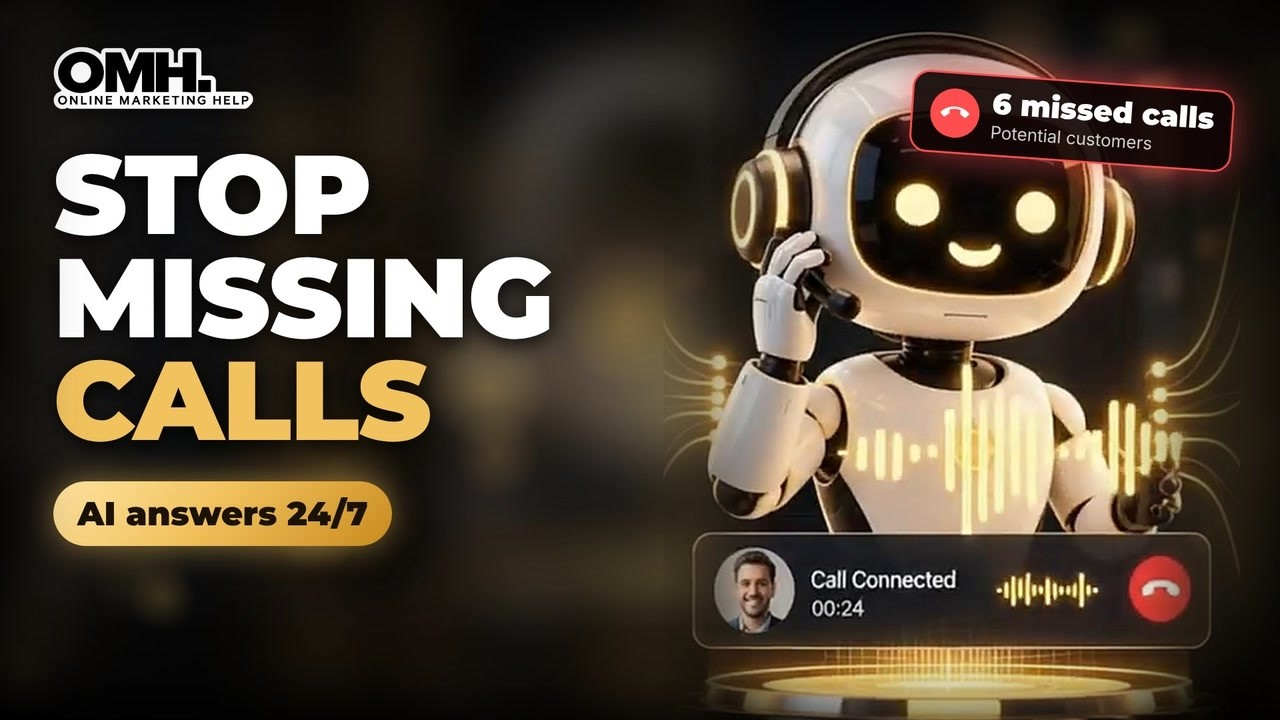
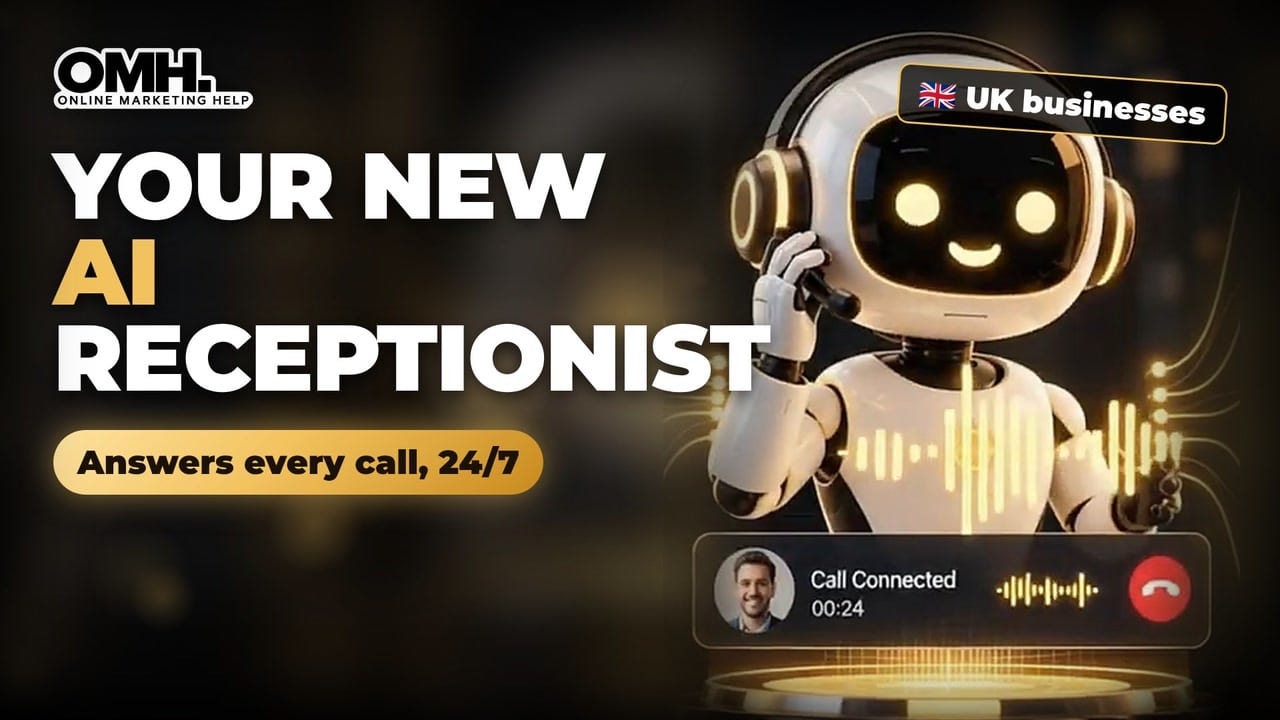
AI voice agents: apply the client's 26 Oct 2026 audit and its page-speed notes
- Hero video thumbnail replaced with the client's "Your new AI receptionist"
  artwork (same file name, so every voice landing page picks it up; 130 KB
  JPEG re-encoded to 89 KB).
- The hero poster was loading="lazy", which deferred the page's largest
  image; it now carries fetchpriority="high" on every voice landing hero.
- "Part 2: what happens to a new web lead" flow panel removed from How it
  works (client: "really need this flow section?").
- Demo-line figures (calls answered, bookings, out of hours) removed from
  Sample calls by industry for now.
- Carousel controls centred under the track (Sample calls, Local cover).
- The page script's twenty-odd inits now run in idle time with an 800ms
  cap instead of inside hydration (PageSpeed 71 mobile / 70 desktop).

The calculator breakdown form the audit marked was already removed in
32079e4.

Changed region(s): [[0.0312, 0.2139, 0.625, 0.7944], [0.6875, 0.0611, 1.0, 0.275]]

diff --git a/lib/content/ai-voice-agents-landing-v4.ts b/lib/content/ai-voice-agents-landing-v4.ts
@@ -93,7 +93,7 @@ export const landingV4Markup = String.raw`
     <div class="hero-video" id="hero-video">
       <div class="video-frame" data-video data-youtube-id="NB9WWD0TBR8" data-video-title="Stop missing calls with the OMH AI Receptionist">
         <a class="video-poster on-band has-thumb" href="https://www.youtube.com/watch?v=NB9WWD0TBR8" target="_blank" rel="noopener" data-video-play aria-label="Play video: Stop missing calls with the OMH AI Receptionist (1:09)">
-          <img class="vp-thumb" src="/images/voice-agents/ai-receptionist-video-poster.jpg" alt="Video: the OMH AI Receptionist answering calls 24/7" width="1280" height="720" loading="lazy" decoding="async">
+          <img class="vp-thumb" src="/images/voice-agents/ai-receptionist-video-poster.jpg" alt="Video: the OMH AI Receptionist answering calls 24/7" width="1280" height="720" fetchpriority="high" decoding="async">
           <span class="vp-play" aria-hidden="true"><span class="vp-play-core"><svg class="vp-play-ico" viewBox="0 0 24 24" focusable="false"><path d="M8 5.6v12.8l10.4-6.4z"/></svg></span><span class="vp-play-label">Watch the demo</span></span>
           <span class="vp-bottom" aria-hidden="true">
             <span class="vp-cap"><span class="vp-kicker"><span class="voice-mark"><i></i><i></i><i></i></span>Online Marketing Help</span><span class="vp-title">Stop missing calls with the OMH AI Receptionist</span></span>
@@ -223,42 +223,6 @@ export const landingV4Markup = String.raw`
     </ol>
     <p class="t-card mt-6 text-muted">Starter goes live in 3 working days, Growth in 5 to 7 and Scale in 12 to 15. The clock starts once we have your content and diary access.</p>
 
-    <div class="flow-panel on-band mt-14">
-      <h3 class="smallcaps text-muted">Part 2: What happens to a new web lead (Growth and Scale)</h3>
-      <p class="h3 mt-3">From ad click to a call back in under a minute.</p>
-    <div class="lf mt-8" data-lf-flow role="group" aria-label="How a lead moves from your ad to your calendar">
-      <div data-lf="n1" class="lf-node"><span class="lf-ico" aria-hidden="true"><svg class="icon"><use href="#v4-i-megaphone"/></svg></span><span class="lf-txt"><b><span class="sr-only">Step 1: </span>Someone clicks your ad</b><small><a href="/google-adwords-ppc" class="underline decoration-gold decoration-2 underline-offset-4 hover:text-hl">Google</a> or Facebook</small></span></div>
-      <span class="lf-arrow" data-lf="a1" aria-hidden="true"></span>
-      <div data-lf="n2" class="lf-node"><span class="lf-ico" aria-hidden="true"><svg class="icon"><use href="#v4-i-globe"/></svg></span><span class="lf-txt"><b><span class="sr-only">Step 2: </span>They enquire Your website form, or a call</b></span></div>
-      <span class="lf-arrow" data-lf="a2" aria-hidden="true"></span>
-      <div data-lf="n3" class="lf-node"><span class="lf-ico" aria-hidden="true"><svg class="icon"><use href="#v4-i-clipboard"/></svg></span><span class="lf-txt"><b><span class="sr-only">Step 3: </span>The lead lands Straight into your CRM</b></span></div>
-      <span class="lf-arrow" data-lf="a3" aria-hidden="true"></span>
-      <div data-lf="n4" class="lf-node lf-gold"><span class="lf-ico" aria-hidden="true"><svg class="icon"><use href="#v4-i-phone"/></svg></span><span class="lf-txt"><b><span class="sr-only">Step 4: </span>Your agent rings them Within 60 seconds</b></span></div>
-      <div class="lf-split" aria-hidden="true">
-        <svg viewBox="0 0 100 300" preserveAspectRatio="none"><path data-lf="s1" d="M0 150 C50 150 50 50 100 50"/><path data-lf="s2" d="M0 150 L100 150"/><path data-lf="s3" d="M0 150 C50 150 50 250 100 250"/></svg>
-        <span class="lf-arrow" data-lf="sm"></span>
-      </div>
-      <div class="lf-branches">
-        <p class="lf-then"><span class="sr-only">Step 5: </span>Then one of three things happens:</p>
-        <ul aria-label="Step 5: the outcome">
-          <li><div data-lf="b1" tabindex="0" class="lf-node lf-ok"><span class="lf-ico" aria-hidden="true"><svg class="icon"><use href="#v4-i-calendar"/></svg></span><span class="lf-txt"><b>An appointment booked On your calendar</b></span></div></li>
-          <li><div data-lf="b2" tabindex="0" class="lf-node"><span class="lf-ico" aria-hidden="true"><svg class="icon"><use href="#v4-i-transfer"/></svg></span><span class="lf-txt"><b>A warm transfer Put straight through to you</b></span></div></li>
-          <li><div data-lf="b3" tabindex="0" class="lf-node"><span class="lf-ico" aria-hidden="true"><svg class="icon"><use href="#v4-i-message"/></svg></span><span class="lf-txt"><b>A follow-up If they are not ready yet</b></span></div></li>
-        </ul>
-      </div>
-      <div class="lf-merge" aria-hidden="true">
-        <svg viewBox="0 0 100 300" preserveAspectRatio="none"><path data-lf="m1" d="M0 50 C50 50 50 150 100 150"/><path data-lf="m2" d="M0 150 L100 150"/><path data-lf="m3" d="M0 250 C50 250 50 150 100 150"/></svg>
-        <span class="lf-arrow" data-lf="mm"></span>
-      </div>
-      <div data-lf="n5" class="lf-node lf-final on-band"><span class="lf-ico" aria-hidden="true"><svg class="icon"><use href="#v4-i-mail"/></svg></span><span class="lf-txt"><b><span class="sr-only">Step 6: </span>A summary and tags Written back to your CRM</b></span></div>
-    </div>
-      <p class="lf-status" aria-hidden="true" data-lf-status>Follow a lead through it. Hover or tap an outcome to trace its route.</p>
-      <dl class="kstats mt-10">
-        <div><dt class="sr-only">Answer speed</dt><dd><b>1st ring</b><span>answer speed</span></dd></div>
-        <div><dt class="sr-only">New lead call time</dt><dd><b>60 sec</b><span>to call new web leads</span><small>(Growth and Scale)</small></dd></div>
-        <div><dt class="sr-only">Hours</dt><dd><b>24/7</b><span>bank holidays included</span></dd></div>
-        <div><dt class="sr-only">Calls summarised</dt><dd><b>100%</b><span>of calls summarised for you</span></dd></div>
-      </dl>
-    </div>
+    <!-- The "Part 2" lead-flow panel was removed here (client audit, 26 Oct 2026). -->
   </div>
 `;

diff --git a/lib/content/voice-receptionist/landing.ts b/lib/content/voice-receptionist/landing.ts
@@ -90,7 +90,7 @@ export const receptionistLandingMarkup = String.raw`
     <div class="hero-video" id="hero-video">
       <div class="video-frame" data-video data-youtube-id="NB9WWD0TBR8" data-video-title="Stop missing calls with the OMH AI Receptionist">
         <a class="video-poster on-band has-thumb" href="https://www.youtube.com/watch?v=NB9WWD0TBR8" target="_blank" rel="noopener" data-video-play aria-label="Play video: Stop missing calls with the OMH AI Receptionist (1:09)">
-          <img class="vp-thumb" src="/images/voice-agents/ai-receptionist-video-poster.jpg" alt="Video: the OMH AI Receptionist answering calls 24/7" width="1280" height="720" loading="lazy" decoding="async">
+          <img class="vp-thumb" src="/images/voice-agents/ai-receptionist-video-poster.jpg" alt="Video: the OMH AI Receptionist answering calls 24/7" width="1280" height="720" fetchpriority="high" decoding="async">
           <span class="vp-play" aria-hidden="true"><span class="vp-play-core"><svg class="vp-play-ico" viewBox="0 0 24 24" focusable="false"><path d="M8 5.6v12.8l10.4-6.4z"/></svg></span><span class="vp-play-label">Watch the demo</span></span>
           <span class="vp-bottom" aria-hidden="true">
             <span class="vp-cap"><span class="vp-kicker"><span class="voice-mark"><i></i><i></i><i></i></span>Online Marketing Help</span><span class="vp-title">Stop missing calls with the OMH AI Receptionist</span></span>

diff --git a/lib/content/voice-builders/landing.ts b/lib/content/voice-builders/landing.ts
@@ -94,7 +94,7 @@ export const buildersLandingMarkup = String.raw`
     <div class="hero-video" id="hero-video">
       <div class="video-frame" data-video data-youtube-id="NB9WWD0TBR8" data-video-title="Stop missing calls with the OMH AI Receptionist">
         <a class="video-poster on-band has-thumb" href="https://www.youtube.com/watch?v=NB9WWD0TBR8" target="_blank" rel="noopener" data-video-play aria-label="Play video: Stop missing calls with the OMH AI Receptionist (1:09)">
-          <img class="vp-thumb" src="/images/voice-agents/ai-receptionist-video-poster.jpg" alt="Video: the OMH AI Receptionist answering calls 24/7" width="1280" height="720" loading="lazy" decoding="async">
+          <img class="vp-thumb" src="/images/voice-agents/ai-receptionist-video-poster.jpg" alt="Video: the OMH AI Receptionist answering calls 24/7" width="1280" height="720" fetchpriority="high" decoding="async">
           <span class="vp-play" aria-hidden="true"><span class="vp-play-core"><svg class="vp-play-ico" viewBox="0 0 24 24" focusable="false"><path d="M8 5.6v12.8l10.4-6.4z"/></svg></span><span class="vp-play-label">Watch the demo</span></span>
           <span class="vp-bottom" aria-hidden="true">
             <span class="vp-cap"><span class="vp-kicker"><span class="voice-mark"><i></i><i></i><i></i></span>Online Marketing Help</span><span class="vp-title">Stop missing calls with the OMH AI Receptionist</span></span>

diff --git a/lib/content/voice-plumbers/landing.ts b/lib/content/voice-plumbers/landing.ts
@@ -93,7 +93,7 @@ export const plumbersLandingMarkup = String.raw`
     <div class="hero-video" id="hero-video">
       <div class="video-frame" data-video data-youtube-id="NB9WWD0TBR8" data-video-title="Stop missing calls with the OMH AI Receptionist">
         <a class="video-poster on-band has-thumb" href="https://www.youtube.com/watch?v=NB9WWD0TBR8" target="_blank" rel="noopener" data-video-play aria-label="Play video: Stop missing calls with the OMH AI Receptionist (1:09)">
-          <img class="vp-thumb" src="/images/voice-agents/ai-receptionist-video-poster.jpg" alt="Video: the OMH AI Receptionist answering calls 24/7" width="1280" height="720" loading="lazy" decoding="async">
+          <img class="vp-thumb" src="/images/voice-agents/ai-receptionist-video-poster.jpg" alt="Video: the OMH AI Receptionist answering calls 24/7" width="1280" height="720" fetchpriority="high" decoding="async">
           <span class="vp-play" aria-hidden="true"><span class="vp-play-core"><svg class="vp-play-ico" viewBox="0 0 24 24" focusable="false"><path d="M8 5.6v12.8l10.4-6.4z"/></svg></span><span class="vp-play-label">Watch the demo</span></span>
           <span class="vp-bottom" aria-hidden="true">
             <span class="vp-cap"><span class="vp-kicker"><span class="voice-mark"><i></i><i></i><i></i></span>Online Marketing Help</span><span class="vp-title">Stop missing calls with the OMH AI Receptionist</span></span>

diff --git a/lib/content/voice-clinics/landing.ts b/lib/content/voice-clinics/landing.ts
@@ -93,7 +93,7 @@ export const clinicLandingMarkup = String.raw`
     <div class="hero-video" id="hero-video">
       <div class="video-frame" data-video data-youtube-id="NB9WWD0TBR8" data-video-title="Stop missing calls with the OMH AI Receptionist">
         <a class="video-poster on-band has-thumb" href="https://www.youtube.com/watch?v=NB9WWD0TBR8" target="_blank" rel="noopener" data-video-play aria-label="Play video: Stop missing calls with the OMH AI Receptionist (1:09)">
-          <img class="vp-thumb" src="/images/voice-agents/ai-receptionist-video-poster.jpg" alt="Video: the OMH AI Receptionist answering calls 24/7" width="1280" height="720" loading="lazy" decoding="async">
+          <img class="vp-thumb" src="/images/voice-agents/ai-receptionist-video-poster.jpg" alt="Video: the OMH AI Receptionist answering calls 24/7" width="1280" height="720" fetchpriority="high" decoding="async">
           <span class="vp-play" aria-hidden="true"><span class="vp-play-core"><svg class="vp-play-ico" viewBox="0 0 24 24" focusable="false"><path d="M8 5.6v12.8l10.4-6.4z"/></svg></span><span class="vp-play-label">Watch the demo</span></span>
           <span class="vp-bottom" aria-hidden="true">
             <span class="vp-cap"><span class="vp-kicker"><span class="voice-mark"><i></i><i></i><i></i></span>Online Marketing Help</span><span class="vp-title">Stop missing calls with the OMH AI Receptionist</span></span>

diff --git a/lib/content/voice-dental/landing.ts b/lib/content/voice-dental/landing.ts
@@ -93,7 +93,7 @@ export const dentalLandingMarkup = String.raw`
     <div class="hero-video" id="hero-video">
       <div class="video-frame" data-video data-youtube-id="NB9WWD0TBR8" data-video-title="Stop missing calls with the OMH AI Receptionist">
         <a class="video-poster on-band has-thumb" href="https://www.youtube.com/watch?v=NB9WWD0TBR8" target="_blank" rel="noopener" data-video-play aria-label="Play video: Stop missing calls with the OMH AI Receptionist (1:09)">
-          <img class="vp-thumb" src="/images/voice-agents/ai-receptionist-video-poster.jpg" alt="Video: the OMH AI Receptionist answering calls 24/7" width="1280" height="720" loading="lazy" decoding="async">
+          <img class="vp-thumb" src="/images/voice-agents/ai-receptionist-video-poster.jpg" alt="Video: the OMH AI Receptionist answering calls 24/7" width="1280" height="720" fetchpriority="high" decoding="async">
           <span class="vp-play" aria-hidden="true"><span class="vp-play-core"><svg class="vp-play-ico" viewBox="0 0 24 24" focusable="false"><path d="M8 5.6v12.8l10.4-6.4z"/></svg></span><span class="vp-play-label">Watch the demo</span></span>
           <span class="vp-bottom" aria-hidden="true">
             <span class="vp-cap"><span class="vp-kicker"><span class="voice-mark"><i></i><i></i><i></i></span>Online Marketing Help</span><span class="vp-title">Stop missing calls with the OMH AI Receptionist</span></span>

diff --git a/lib/content/voice-estate/landing.ts b/lib/content/voice-estate/landing.ts
@@ -98,7 +98,7 @@ export const estateLandingMarkup = String.raw`
     <div class="hero-video" id="hero-video">
       <div class="video-frame" data-video data-youtube-id="NB9WWD0TBR8" data-video-title="Stop missing calls with the OMH AI Receptionist">
         <a class="video-poster on-band has-thumb" href="https://www.youtube.com/watch?v=NB9WWD0TBR8" target="_blank" rel="noopener" data-video-play aria-label="Play video: Stop missing calls with the OMH AI Receptionist (1:09)">
-          <img class="vp-thumb" src="/images/voice-agents/ai-receptionist-video-poster.jpg" alt="Video: the OMH AI Receptionist answering calls 24/7" width="1280" height="720" loading="lazy" decoding="async">
+          <img class="vp-thumb" src="/images/voice-agents/ai-receptionist-video-poster.jpg" alt="Video: the OMH AI Receptionist answering calls 24/7" width="1280" height="720" fetchpriority="high" decoding="async">
           <span class="vp-play" aria-hidden="true"><span class="vp-play-core"><svg class="vp-play-ico" viewBox="0 0 24 24" focusable="false"><path d="M8 5.6v12.8l10.4-6.4z"/></svg></span><span class="vp-play-label">Watch the demo</span></span>
           <span class="vp-bottom" aria-hidden="true">
             <span class="vp-cap"><span class="vp-kicker"><span class="voice-mark"><i></i><i></i><i></i></span>Online Marketing Help</span><span class="vp-title">Stop missing calls with the OMH AI Receptionist</span></span>

diff --git a/lib/content/voice-cars/landing.ts b/lib/content/voice-cars/landing.ts
@@ -95,7 +95,7 @@ export const carsLandingMarkup = String.raw`
     <div class="hero-video" id="hero-video">
       <div class="video-frame" data-video data-youtube-id="NB9WWD0TBR8" data-video-title="Stop missing calls with the OMH AI Receptionist">
         <a class="video-poster on-band has-thumb" href="https://www.youtube.com/watch?v=NB9WWD0TBR8" target="_blank" rel="noopener" data-video-play aria-label="Play video: Stop missing calls with the OMH AI Receptionist (1:09)">
-          <img class="vp-thumb" src="/images/voice-agents/ai-receptionist-video-poster.jpg" alt="Video: the OMH AI Receptionist answering calls 24/7" width="1280" height="720" loading="lazy" decoding="async">
+          <img class="vp-thumb" src="/images/voice-agents/ai-receptionist-video-poster.jpg" alt="Video: the OMH AI Receptionist answering calls 24/7" width="1280" height="720" fetchpriority="high" decoding="async">
           <span class="vp-play" aria-hidden="true"><span class="vp-play-core"><svg class="vp-play-ico" viewBox="0 0 24 24" focusable="false"><path d="M8 5.6v12.8l10.4-6.4z"/></svg></span><span class="vp-play-label">Watch the demo</span></span>
           <span class="vp-bottom" aria-hidden="true">
             <span class="vp-cap"><span class="vp-kicker"><span class="voice-mark"><i></i><i></i><i></i></span>Online Marketing Help</span><span class="vp-title">Stop missing calls with the OMH AI Receptionist</span></span>

diff --git a/lib/content/voice-hvac/landing.ts b/lib/content/voice-hvac/landing.ts
@@ -93,7 +93,7 @@ export const hvacLandingMarkup = String.raw`
     <div class="hero-video" id="hero-video">
       <div class="video-frame" data-video data-youtube-id="NB9WWD0TBR8" data-video-title="Stop missing calls with the OMH AI Receptionist">
         <a class="video-poster on-band has-thumb" href="https://www.youtube.com/watch?v=NB9WWD0TBR8" target="_blank" rel="noopener" data-video-play aria-label="Play video: Stop missing calls with the OMH AI Receptionist (1:09)">
-          <img class="vp-thumb" src="/images/voice-agents/ai-receptionist-video-poster.jpg" alt="Video: the OMH AI Receptionist answering calls 24/7" width="1280" height="720" loading="lazy" decoding="async">
+          <img class="vp-thumb" src="/images/voice-agents/ai-receptionist-video-poster.jpg" alt="Video: the OMH AI Receptionist answering calls 24/7" width="1280" height="720" fetchpriority="high" decoding="async">
           <span class="vp-play" aria-hidden="true"><span class="vp-play-core"><svg class="vp-play-ico" viewBox="0 0 24 24" focusable="false"><path d="M8 5.6v12.8l10.4-6.4z"/></svg></span><span class="vp-play-label">Watch the demo</span></span>
           <span class="vp-bottom" aria-hidden="true">
             <span class="vp-cap"><span class="vp-kicker"><span class="voice-mark"><i></i><i></i><i></i></span>Online Marketing Help</span><span class="vp-title">Stop missing calls with the OMH AI Receptionist</span></span>

diff --git a/lib/content/voice-law/landing.ts b/lib/content/voice-law/landing.ts
@@ -93,7 +93,7 @@ export const lawLandingMarkup = String.raw`
     <div class="hero-video" id="hero-video">
       <div class="video-frame" data-video data-youtube-id="NB9WWD0TBR8" data-video-title="Stop missing calls with the OMH AI Receptionist">
         <a class="video-poster on-band has-thumb" href="https://www.youtube.com/watch?v=NB9WWD0TBR8" target="_blank" rel="noopener" data-video-play aria-label="Play video: Stop missing calls with the OMH AI Receptionist (1:09)">
-          <img class="vp-thumb" src="/images/voice-agents/ai-receptionist-video-poster.jpg" alt="Video: the OMH AI Receptionist answering calls 24/7" width="1280" height="720" loading="lazy" decoding="async">
+          <img class="vp-thumb" src="/images/voice-agents/ai-receptionist-video-poster.jpg" alt="Video: the OMH AI Receptionist answering calls 24/7" width="1280" height="720" fetchpriority="high" decoding="async">
           <span class="vp-play" aria-hidden="true"><span class="vp-play-core"><svg class="vp-play-ico" viewBox="0 0 24 24" focusable="false"><path d="M8 5.6v12.8l10.4-6.4z"/></svg></span><span class="vp-play-label">Watch the demo</span></span>
           <span class="vp-bottom" aria-hidden="true">
             <span class="vp-cap"><span class="vp-kicker"><span class="voice-mark"><i></i><i></i><i></i></span>Online Marketing Help</span><span class="vp-title">Stop missing calls with the OMH AI Receptionist</span></span>

diff --git a/lib/content/ai-voice-agents-legacy.ts b/lib/content/ai-voice-agents-legacy.ts
@@ -306,12 +306,7 @@ export const legacyMarkup = String.raw`
       <p class="mt-5 text-muted">Hear how our AI voice agent handles calls for different types of business. These are sample recordings of our agent. We'll add client results here once we've checked them with each client.</p>
     </div>
 
-    <dl class="mt-12 grid border-y border-[var(--va-line-strong)] sm:grid-cols-3">
-      <div class="py-5 sm:pr-6"><dd class="font-display text-[30px] font-semibold leading-none tnum">1,284</dd><dt class="mt-1.5 text-[16px] text-muted">calls answered</dt></div>
-      <div class="border-t border-line py-5 sm:border-l sm:border-t-0 sm:px-6"><dd class="font-display text-[30px] font-semibold leading-none tnum">317</dd><dt class="mt-1.5 text-[16px] text-muted">bookings made</dt></div>
-      <div class="border-t border-line py-5 sm:border-l sm:border-t-0 sm:pl-6"><dd class="font-display text-[30px] font-semibold leading-none tnum">38%</dd><dt class="mt-1.5 text-[16px] text-muted">answered out of hours</dt></div>
-    </dl>
-    <p class="mt-3 text-[16px] text-muted">From our demo line, September 2026.</p>
+    <!-- Demo-line figures removed for now (client audit, 26 Oct 2026). -->
 
     <div class="va-car mt-10" data-carousel data-autoplay>
     <div class="va-car-track" style="--car-w:380px" tabindex="0" aria-label="Sample calls, scroll sideways">

diff --git a/components/voice-agents/VoiceAgentsScript.tsx b/components/voice-agents/VoiceAgentsScript.tsx
@@ -24,9 +24,21 @@ export function VoiceAgentsScript() {
   useEffect(() => {
     const page = document.getElementById("va-page");
     if (!page) return;
-    const stop = init(page, (href) => router.push(href));
-    const unfit = fitRoiFrames(page);
-    return () => { stop(); unfit(); };
+    // Deferred to idle time (client audit, 26 Oct 2026, PageSpeed 71): the twenty-odd inits ran inside
+    // hydration and blocked the main thread. The 800ms timeout keeps interactions responsive on slow devices.
+    let stop = () => {};
+    let unfit = () => {};
+    const run = () => {
+      stop = init(page, (href) => router.push(href));
+      unfit = fitRoiFrames(page);
+    };
+    const idle = window.requestIdleCallback ? window.requestIdleCallback(run, { timeout: 800 }) : window.setTimeout(run, 1);
+    return () => {
+      if (window.cancelIdleCallback) window.cancelIdleCallback(idle);
+      else clearTimeout(idle);
+      stop();
+      unfit();
+    };
   }, [router]);
 
   return null;
